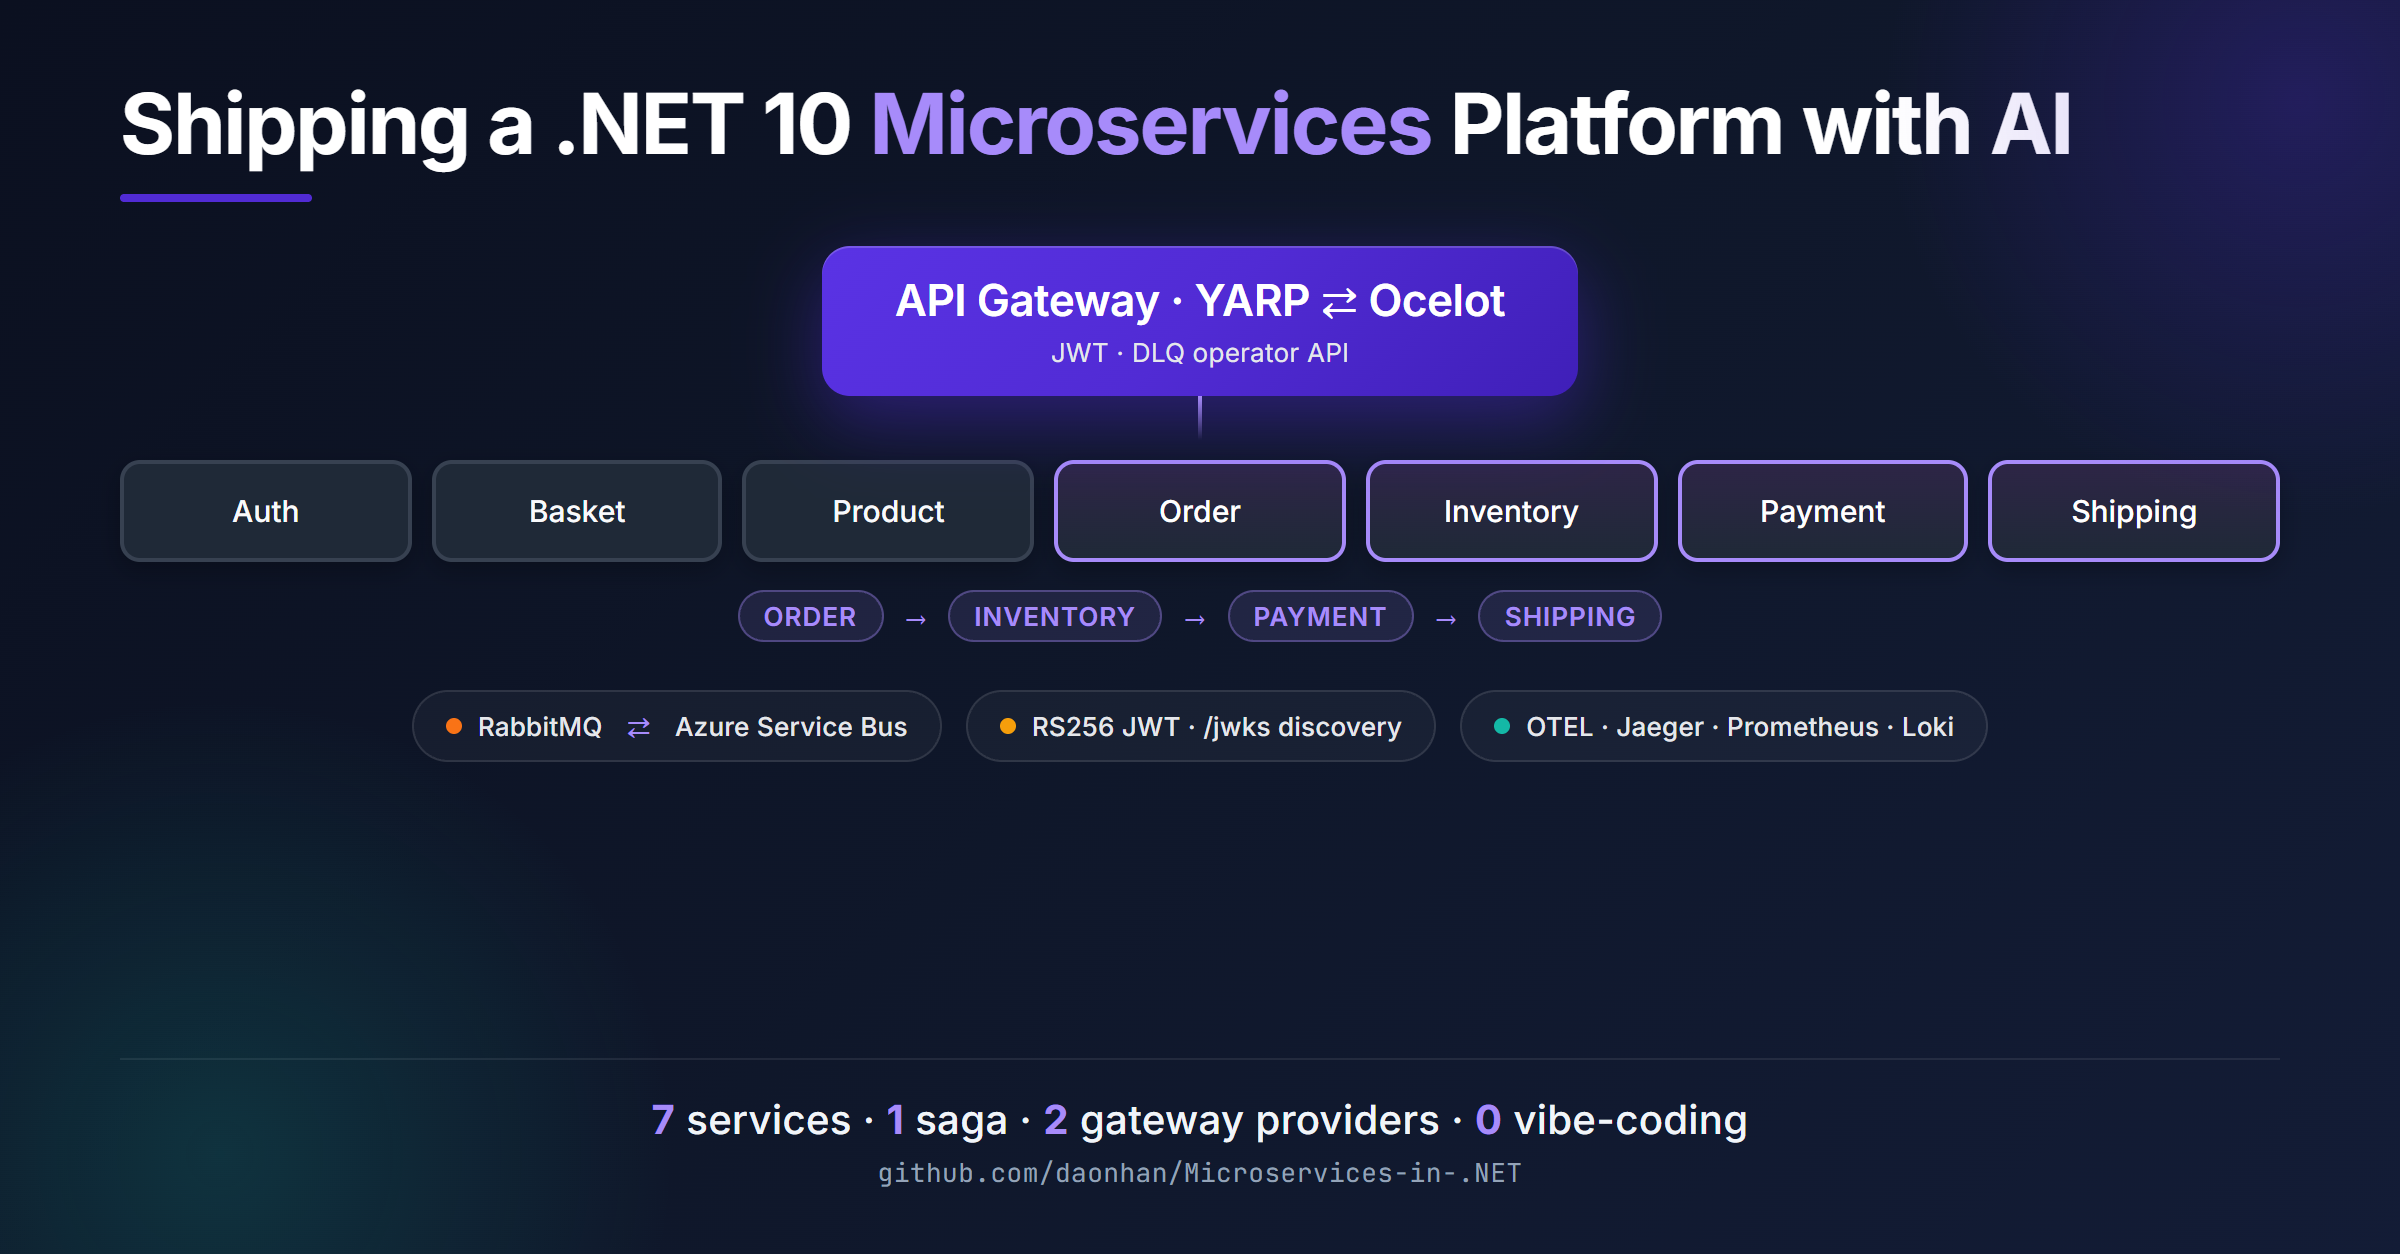
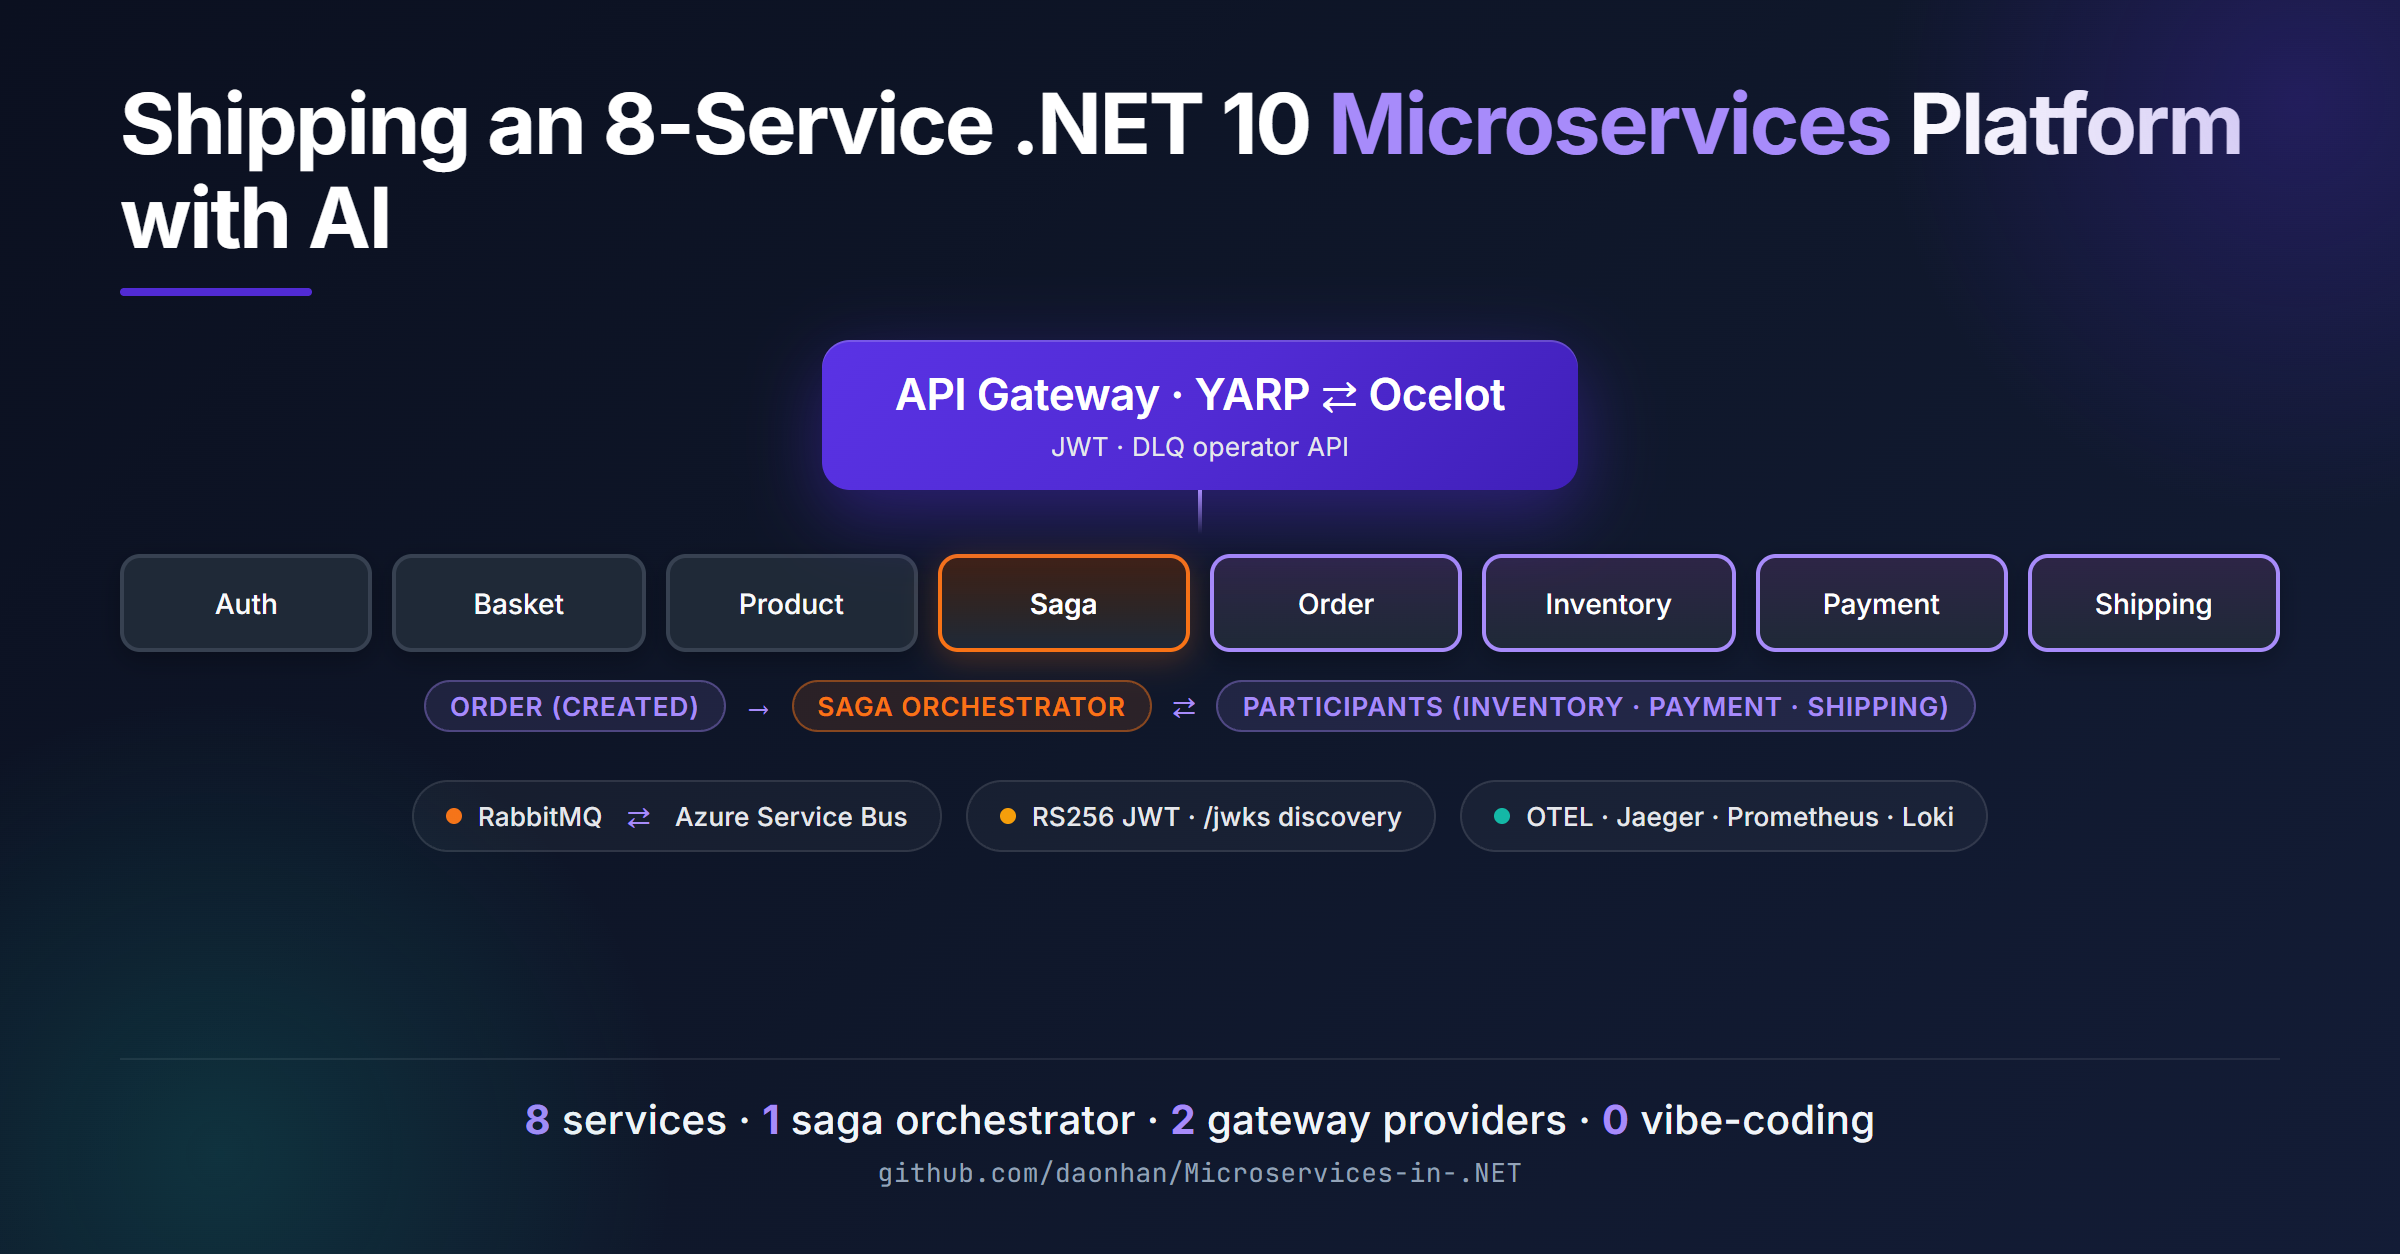
fix(docs): update JWT signing algorithm from HMAC-SHA256 to RS256 in authentication flow

diff --git a/docs/wiki/Architecture.md b/docs/wiki/Architecture.md
@@ -143,7 +143,7 @@ See [Observability](Observability) for dashboards and alerts.
 ## Authentication flow
 
 1. Client calls `POST /login` on the Gateway → proxied to Auth service.
-2. Auth validates credentials against its SQL Server store and returns a JWT (HMAC-SHA256) with `user_role` claims.
+2. Auth validates credentials against its SQL Server store and returns a JWT (RS256) with `user_role` claims.
 3. Client includes `Authorization: Bearer <jwt>` on subsequent requests.
 4. The Gateway validates the token and enforces role policies (e.g. `Administrator` for write ops on Product and Inventory).
 5. Downstream services validate the token again via the shared `AddJwtAuthentication()` extension.
